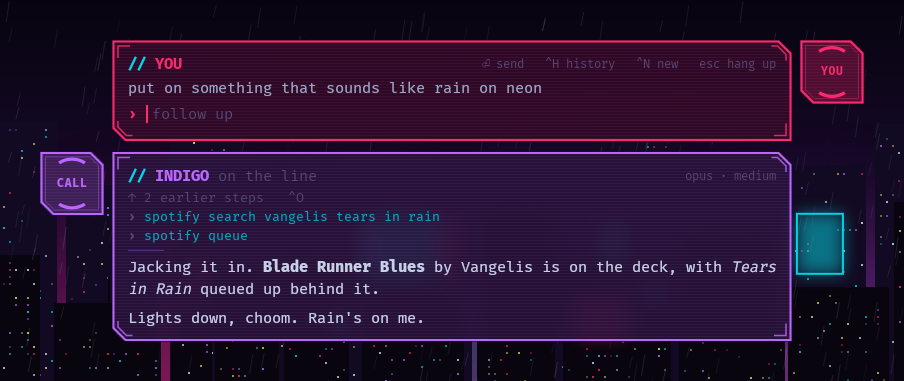
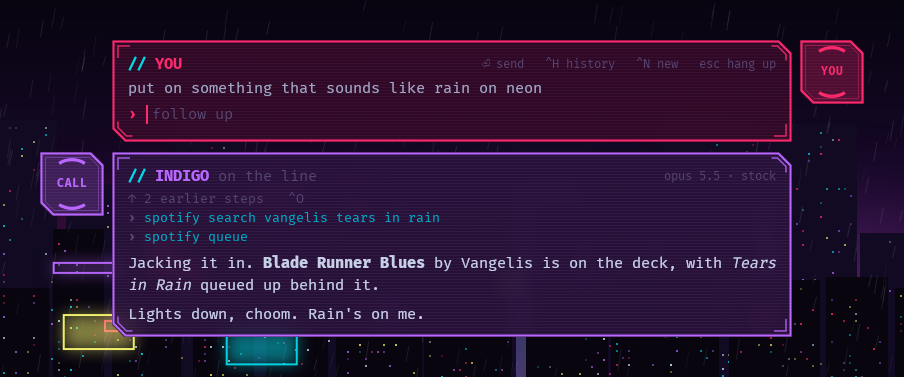
README: the agent's header, talking over it, and its skills
New bullets for the model version and effort names on the header, for
lines sent while it works, and for the skills it builds itself, whose
scripts show their stages on the progress bar. The key table and the
file tree catch up, and the call, status and music pictures are
re-rendered with the new header.

diff --git a/README.md b/README.md
@@ -49,6 +49,15 @@ account from the `claude` in your terminal.
   wants you — an answer blinks twice, a question blinks until answered.
   While a turn runs, the agent's frame is redrawn clockwise as a turn
   clock, one lap a minute.
+- **Model and effort on its header.** `Ctrl+M` switches the model on
+  the live conversation and `Ctrl+T` the effort. The header names the
+  model by the version the API reports for it — `opus 5.5`, never a
+  guess — and the effort by street name: idle, stock, boost, overclock,
+  redline (low to max).
+- **Talk over it.** A line sent while it works goes in at once and
+  shows in its plate, in your colour, where you sent it. The agent
+  reads it at its next step — a running command finishes untouched —
+  and folds it into the task. `Ctrl+C` stops it now instead.
 - **It hangs up on long jobs and calls back.** For anything slow it
   says what it's about to do and hangs up; a status chip in the corner
   keeps working, and rings when the work is done. Escape hangs up from
@@ -58,13 +67,14 @@ account from the `claude` in your terminal.
        alt="Hung up: the status chip spinning through a system update, then calling back with the result">
 
 - **Long commands show how far they've got.** A download, a transcode or
-  one of its own multi-stage scripts gets a progress bar under the step
-  that runs it: how much is done, how fast, how long is left, and which
-  stage of the pipeline it's on. Hung up, the bar moves to the status
-  chip. yt-dlp, ffmpeg, curl and rsync report by themselves, through
-  small wrappers on the agent's PATH, which also trim their progress
-  spam to one line in the agent's context. Its own scripts report with
-  a ten-line function, and the agent can ask where a job is up to.
+  one of its skills' multi-stage scripts (below) gets a progress bar
+  under the step that runs it: how much is done, how fast, how long is
+  left, and which stage of the pipeline it's on. Hung up, the bar moves
+  to the status chip. yt-dlp, ffmpeg, curl and rsync report by
+  themselves, through small wrappers on the agent's PATH, which also
+  trim their progress spam to one line in the agent's context. Its own
+  scripts report with a ten-line function, and the agent can ask where
+  a job is up to.
 
 - **It asks before going root.** Claude Code's auto mode judges every
   other call, letting routine work through and blocking what looks
@@ -107,6 +117,16 @@ account from the `claude` in your terminal.
   your rules for working on it — and Claude Code's memory holds what it
   learns about you. Tell it on a call to do things differently and it
   edits its own notebook.
+- **It learns new tricks.** Ask it to set up a way to do something —
+  "from now on, when I send a reel, transcribe it" — and it builds
+  itself a skill: a folder in its workspace with a `SKILL.md` and, when
+  the job needs code, a self-contained `uv` script, nothing installed
+  anywhere else. Transcribing videos with Whisper and finding a song's
+  lyrics started that way, built on a call. A skill's script reports
+  each stage as it goes, so its run shows the steps on its progress
+  bar — download, audio, model, transcribe, write — and they follow to
+  the status chip when it hangs up. Each skill is one line in the
+  agent's context until it is used.
 - **A hologram, glitches and all.** The plates and chips share one
   raster on the screen's pixel grid; every few seconds a scan band runs
   down the whole call and the image tears as it passes. Replies decode
@@ -118,7 +138,7 @@ account from the `claude` in your terminal.
 | `Esc` | hang up (the work carries on) |
 | `Ctrl+C` | copy the selection; with none, stop the task |
 | `Ctrl+N` · `Ctrl+H` | a new conversation · past ones, to resume |
-| `Ctrl+M` · `Ctrl+T` | next model (opus, sonnet, haiku, fable) · effort |
+| `Ctrl+M` · `Ctrl+T` | next model (opus, sonnet, haiku, fable) · effort (idle … redline) |
 | `Ctrl+O` | every step of the turn |
 | `A` `D` | greenlight (allow), scrub (deny) |
 | `PgUp` `PgDn` | scroll a long reply |
@@ -315,11 +335,14 @@ indigoshell/
     browser_host.py ─ that add-on's native messaging host
     extension/      ─ the add-on: page reader, clicks, forms, JavaScript
     prompts.py      ─ the call protocol and the persona
-    permissions.py  ─ the commands that always ask
+    permissions.py  ─ the root commands that still ask
     activity.py     ─ one line per step, approvals, tool formatting
-    seed.py         ─ the agent's workspace: notebook, report skill, palette
-    workspace/      ─ the starting notebook and report skill
+    progress.py     ─ long commands' progress, over a datagram socket
+    watch.py        ─ the wrappers that read yt-dlp/ffmpeg/curl/rsync output
+    seed.py         ─ the agent's workspace: notebook, skills, palette
+    workspace/      ─ the starting notebook and skills (report, new-skill)
     ui/             ─ call.py (keys, layout), agent_plate.py, you_plate.py,
+                      choice.py (GREENLIGHT / SCRUB), bars.py (progress),
                       chip.py, status.py, frame.py (turn clock), reveal.py
                       (decode), holo.py (raster + glitch scan), rows.py
   backend/
